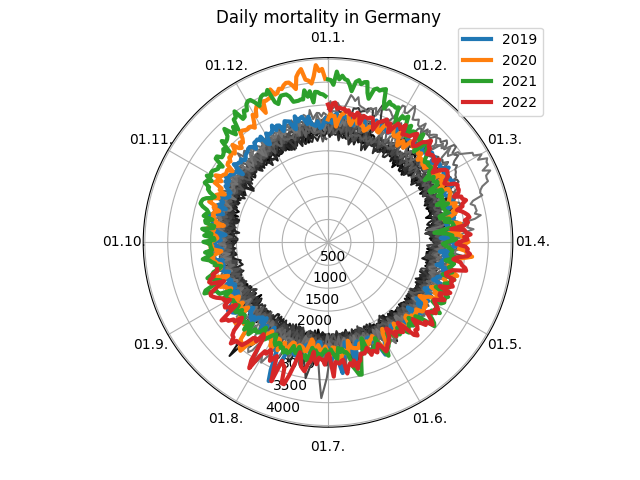
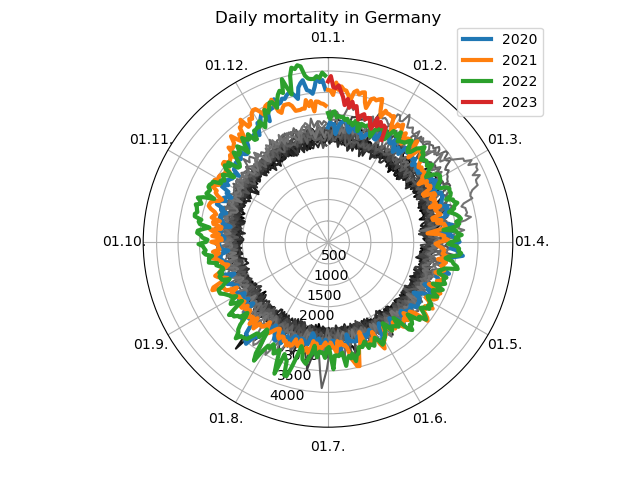
Update for 2023.

diff --git a/plot.py b/plot.py
@@ -6,7 +6,7 @@ files = [
     "sonderauswertung-sterbefaelle.xlsx",
     "sonderauswertung-sterbefaelle-endgueltige-daten.xlsx",
 ]
-sheets = ["D_2016_2022_Tage", "D_2000_2015_Tage"]
+sheets = ["D_2016_2023_Tage", "D_2000_2015_Tage"]
 
 # Read dataframes from file
 dfs = []
@@ -37,7 +37,7 @@ ax = plt.subplot(111, projection="polar")
 for year in range(2000, 2019):
     brightness = 0.5 * (year - 2000) / 20
     ax.plot(df["angle"], df[year], "-", color=str(brightness))
-for year in [2019, 2020, 2021, 2022]:
+for year in [2020, 2021, 2022, 2023]:
     ax.plot(df["angle"], df[year], linewidth=3, label=year)
 ax.set_theta_zero_location("N")
 ax.set_theta_direction(-1)
